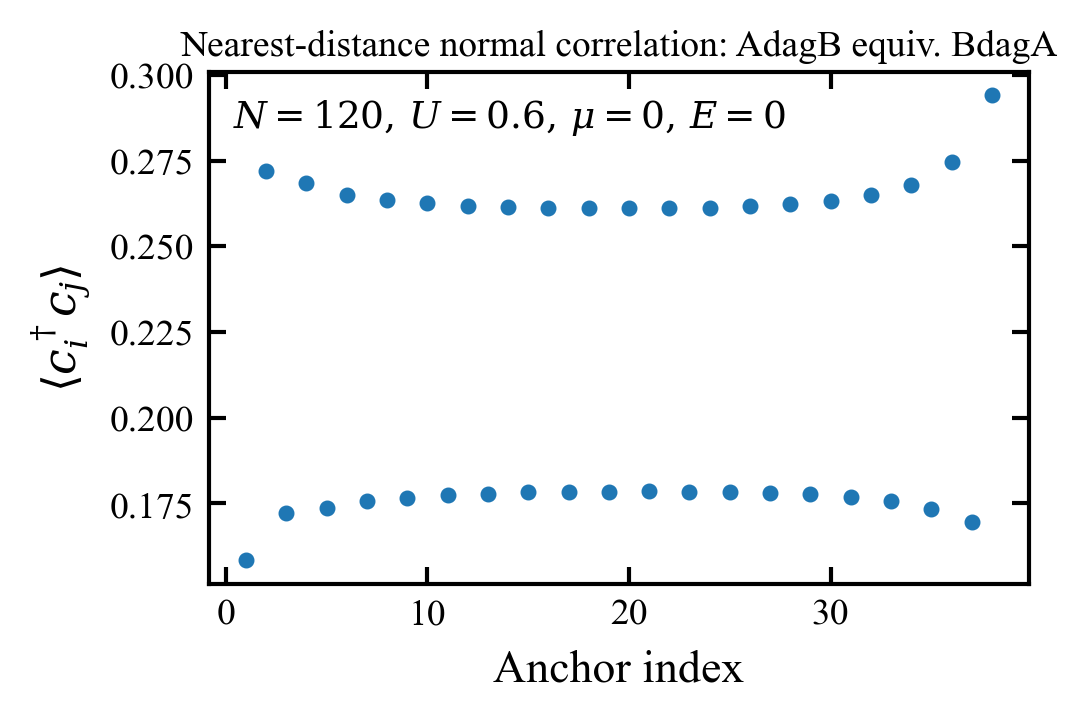
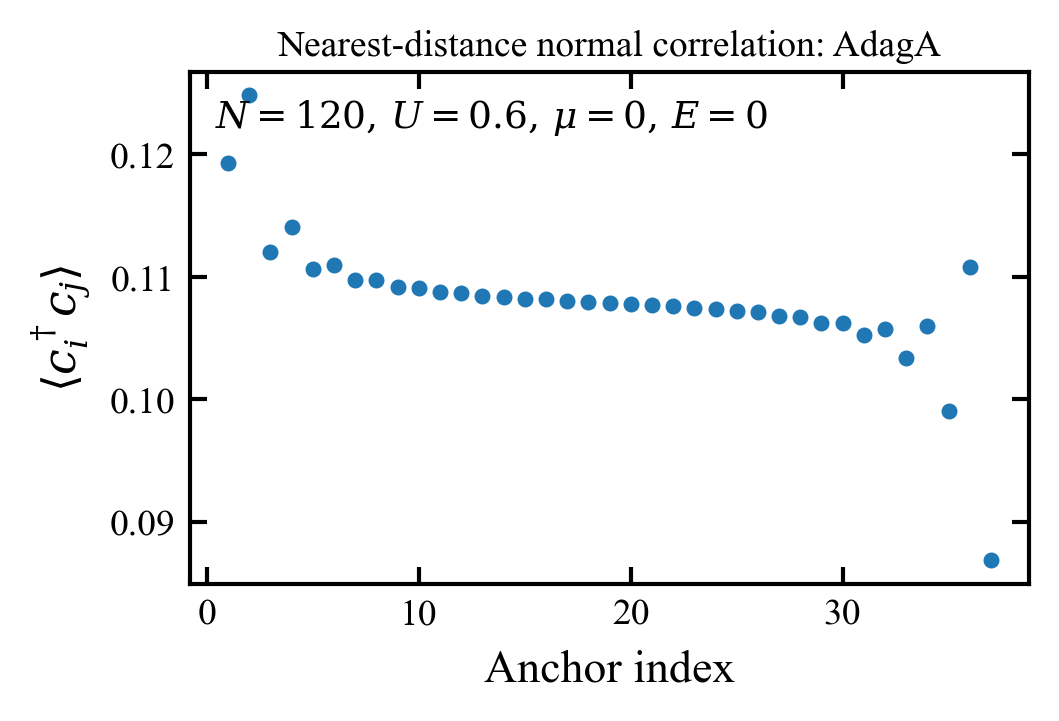
third commit

diff --git a/main.tex b/main.tex
@@ -14,36 +14,36 @@
 
 \begin{document}
 
-\title{Interaction-driven multiphase structure in an interacting flat-band Lieb-Kitaev chain}
+\title{Interaction-driven reconstruction of geometric and topological correlations in a flat-band Lieb-Kitaev chain}
 
 \author{Jiale Xuan}
 \affiliation{School of Physics and Astronomy, Shanghai Jiao Tong University, Shanghai 200240, China}
 \date{\today}
 
 \begin{abstract}
-We revisit the interacting Lieb-Kitaev chain in the nearly flat-band regime and reorganize the numerical evidence into a five-phase picture. The analysis is based directly on DMRG outputs for entanglement entropy, orbital-resolved occupation profiles, Majorana-related correlation functions, and bond observables resolved in real space. Instead of emphasizing only scans versus interaction strength, we examine representative points inside each phase and use their spatial patterns as the primary evidence. The resulting interpretation supports the sequence of a weak-coupling topological phase, an incommensurate charge-density-wave phase, an intermediate phase with coexisting topological and density-ordered structures, a second incommensurate regime, and finally a strong-coupling charge-density-wave phase. The central physical message is that the repulsive interaction does not simply destroy topological superconductivity. Rather, it redistributes the orbital content and reconstructs the low-energy state differently on the $A$, $B$, and $C$ sublattices, producing distinct combinations of topological, incommensurate, bond-ordered, and pair-density-wave-like behavior in different interaction windows.
+We study an interacting spinless Lieb-Kitaev chain in the nearly flat-band regime, motivated by the recent observation that Majorana zero modes in this system inherit two distinct spatial scales: an ordinary Bogoliubov-de Gennes localization length and a longer geometric length controlled by the quantum metric of the parent band. Using finite-system density-matrix renormalization group calculations together with a projected low-energy interpretation, we analyze how these structures evolve under nearest-neighbor density interaction. The present manuscript is intentionally written around the numerics that are already available, including orbital-resolved occupations, energy derivatives, entanglement-based central-charge estimates, bond observables, and extracted correlation lengths. The most robust trend is an interaction-driven orbital redistribution in which the central orbital approaches half filling while the side orbitals become increasingly imbalanced. This orbital reconstruction correlates with multiple anomalies in $dE/dU$, with enhanced bond and density correlations, and with a broad intermediate regime that is not captured by a single direct transition from a weak-coupling topological superconductor to a strong-coupling charge-density-wave state. At weak coupling the data remain compatible with a surviving long geometric Majorana scale, whereas at larger repulsion the system develops strong correlation effects, possible critical windows, and finally a conventional density-ordered regime. These results support the view that in flat-band topological superconductors quantum geometry and interaction-driven ordering are deeply intertwined.
 \end{abstract}
 
 \maketitle
 
 \section{Introduction}
 
-Flat-band superconductivity provides a natural setting in which quantum geometry and many-body interaction effects become inseparable~\cite{peotta2015,julku2016,torma2022}. In ordinary dispersive superconductors, the dominant length scales are controlled primarily by band curvature and pairing amplitude. In contrast, in multiorbital flat-band systems the internal structure of Bloch wave functions itself contributes to physical observables, including superfluid response and localization properties. The Lieb geometry is especially attractive in this context because it supports nearly flat bands together with strongly structured orbital weight.
+Flat-band superconductivity has become a central theme in modern condensed-matter physics because the suppression of bare kinetic energy elevates the role of quantum geometry in setting collective transport and coherence scales~\cite{peotta2015,julku2016,torma2022}. In conventional single-band BCS systems, the coherence length is primarily controlled by dispersion and pairing amplitude. In contrast, multiband flat-band systems admit an additional geometric contribution: the quantum metric of Bloch wave functions can enter superfluid transport, pairing response, and real-space localization properties. The Lieb family of lattices is a canonical setting for this physics because it naturally supports nearly flat or exactly flat bands while retaining nontrivial orbital structure.
 
-Recent work on the noninteracting Lieb-Kitaev model sharpened this perspective by showing that the Majorana zero mode need not be characterized by a single spatial scale~\cite{chen2024,guo2025}. Instead, two lengths emerge: a short Bogoliubov-de Gennes localization length and a longer geometric length associated with the quantum metric of the parent band. This immediately suggests a many-body problem of broader interest. Once interactions are introduced, does the topological state survive in a recognizable form, and if so, how is the geometric structure reconstructed?
+This geometric viewpoint became especially sharp in the recent analysis of Majorana zero modes in the noninteracting Lieb-Kitaev model~\cite{chen2024,guo2025}. There, the edge mode does not exhibit a single localization length. Instead, one finds two distinct correlation lengths: a short Bogoliubov-de Gennes scale associated with ordinary topological superconducting localization, and a longer geometric scale inherited from the spread of flat-band wave functions. The latter is controlled by the quantum metric and can become parametrically large in the nearly flat-band regime. This immediately raises a nontrivial many-body question: once interactions are introduced, does the geometric long tail survive as a physically meaningful scale, or is it washed out by correlation-driven reconstruction?
 
-The question is nontrivial because interactions are most important precisely when the band becomes flat. Reduced kinetic energy enhances charge redistribution and competing order. In one-dimensional topological superconductors, repulsive interactions already generate rich competition among topology, charge order, and criticality~\cite{katsura2015,gangadharaiah2011,mahyaeh2020}. In the multiorbital Lieb-Kitaev chain, that competition is further enriched by orbital selectivity and by the possibility that different sublattices respond differently to the same interaction.
+That question is important because interactions are unavoidable precisely in the regimes where flat-band geometry matters most. Reduced bandwidth amplifies the effect of density interactions, enhances the competition between superconductivity and charge ordering, and can generate phases that have no simple noninteracting counterpart. In one-dimensional topological superconductors, repulsive interactions are already known to reshape phase boundaries and to compete with pairing through commensurate or incommensurate density correlations~\cite{katsura2015,gangadharaiah2011,mahyaeh2020}. In a multiorbital flat-band system, the same competition should be even richer because interactions act on orbitally structured Wannier states rather than on a featureless single channel.
 
-This project also has a broader conceptual motivation summarized in our working notes~\cite{flatbandnotes}. On the attractive side, a negative-$U$ interaction can induce superconductivity even without inserting an explicit pairing field $\Delta$, which highlights the intrinsic superconducting tendency of the flat-band system. On the repulsive side, once a finite $\Delta$ is present, positive $U$ does not merely suppress the paired state uniformly; instead it opens a structured phase diagram in which the sublattices may realize different kinds of density, bond, and pairing textures. The present manuscript focuses on this repulsive branch and formulates the current numerical evidence in a PRB-style research format.
+This broader motivation is reinforced by two complementary lines of reasoning developed in our project notes~\cite{flatbandnotes}. On the attractive side, a negative-$U$ interaction can in principle induce superconductivity even without imposing an explicit pairing field $\Delta$, making the flat-band Lieb geometry an intrinsic platform for interaction-generated superconducting order. On the repulsive side, a positive-$U$ interaction in the presence of finite $\Delta$ is expected to produce a nontrivial phase diagram rather than a trivial suppression of superconductivity: topological pairing, orbital redistribution, bond ordering, and density ordering can all compete on comparable footing. The present manuscript uses this physical picture to organize the available DMRG data into a phase-resolved PRB narrative.
 
-\section{Model and numerical framework}
+\section{Model and theoretical framework}
 \label{sec:model}
 
-We study a spinless interacting Lieb-Kitaev chain with three orbitals $(A,B,C)$ per unit cell. The microscopic Hamiltonian is written as
+We consider a one-dimensional chain of unit cells $j=1,\dots,L$, each containing three spinless orbitals $(A_j,B_j,C_j)$ with annihilation operators $(a_j,b_j,c_j)$. Guided by the noninteracting Lieb-Kitaev construction~\cite{guo2025}, we write
 \begin{equation}
 H = H_t + H_\Delta + H_V + H_U,
 \end{equation}
-where
+with
 \begin{align}
 H_t &= \sum_j \Big[
 t_1 a_j^\dagger b_j + t_1 c_j^\dagger b_j
@@ -55,134 +55,205 @@ H_\Delta &= \sum_j \Big[
 + \Delta_2 a_{j+1} b_j + \Delta_2 c_j b_{j+1}
 + \text{H.c.}
 \Big], \\
-H_V &= V \sum_j (\hat n_{C,j}-\hat n_{A,j})
+H_V &= V \sum_j (\hat n_{C,j} - \hat n_{A,j})
 - \mu \sum_j (\hat n_{A,j}+\hat n_{B,j}+\hat n_{C,j}), \\
-H_U &= U \sum_j \left(\hat n_j-\frac12\right)\left(\hat n_{j+1}-\frac12\right).
+H_U &= U \sum_j \left(\hat n_j-\frac{1}{2}\right)\left(\hat n_{j+1}-\frac{1}{2}\right).
 \end{align}
-The representative parameter set used throughout the present dataset is
+Here $\hat n_{\alpha,j}$ is the number operator on orbital $\alpha\in\{A,B,C\}$, and $\hat n_j$ denotes the density combination used in the numerical implementation. The representative parameter set in the present dataset is
 \begin{equation}
 t=0.03,\qquad J=1,\qquad V=0.6,\qquad \Delta=0.018,\qquad \mu=0.
 \end{equation}
 
-The interacting ground state is computed by finite-system DMRG with open boundary conditions using ITensor~\cite{fishman2022}. Rather than relying only on phase-boundary indicators obtained from scans in $U$, we analyze representative real-space observables inside each phase: the entanglement entropy $S(\ell)$, the orbital-resolved density profile $n_\alpha(x)$, a Majorana-related correlation function in the bulk, and nearest-distance normal correlators used here as bond-order diagnostics. In the discussion below, the $A$-sector bond indicator is represented by the real-space pattern of $\langle A^\dagger B\rangle$ [labeled as $\mathrm{AdagB}$ in the data files], while the $B$-sector bond indicator is represented by $\langle B^\dagger B\rangle$ [labeled as $\mathrm{BdagB}$].
+For the noninteracting parent model, the cell-periodic Bloch states $\lvert u_n(k)\rangle$ define the quantum geometric tensor
+\begin{equation}
+\mathcal{Q}_{\mu\nu}(k)
+=
+\langle \partial_\mu u(k)\vert
+\left[1-\lvert u(k)\rangle\langle u(k)\rvert\right]
+\vert \partial_\nu u(k)\rangle,
+\end{equation}
+whose real part gives the quantum metric~\cite{resta2011}
+\begin{equation}
+g_{\mu\nu}(k)=\mathrm{Re}\,\mathcal{Q}_{\mu\nu}(k).
+\end{equation}
+In one dimension, the corresponding geometric length is estimated schematically by
+\begin{equation}
+\xi_{\rm QM}
+=
+\left[\frac{1}{2\pi}\int_{\rm BZ} dk\, g_{kk}(k)\right]^{1/2}.
+\end{equation}
+Recent work showed that the Majorana edge profile in the Lieb-Kitaev model inherits both a short localization length and a longer scale tied to $\xi_{\rm QM}$~\cite{chen2024,guo2025}. The central issue here is whether an interacting descendant of this long scale remains visible in many-body observables.
 
-\section{Results: five phases}
+To interpret the intermediate-coupling regime we also use a projected low-energy viewpoint. After projection onto the isolated low-energy band, the effective Hamiltonian has the schematic form
+\begin{equation}
+H_{\rm proj}
+=
+\sum_k \varepsilon_k \gamma_k^\dagger \gamma_k
++ \sum_k \left(\Delta_k \gamma_k^\dagger \gamma_{-k}^\dagger + \text{H.c.}\right)
++ H_{\rm proj}^{(4)},
+\end{equation}
+where $H_{\rm proj}^{(4)}$ contains interaction-generated four-fermion terms dressed by multiorbital form factors. Bosonization of the resulting one-dimensional theory suggests the coexistence of pairing, commensurate density locking, and incommensurate density modulation,
+\begin{equation}
+\mathcal{H}
+=
+\frac{v}{2\pi}\int dx \left[K(\partial_x\theta)^2 + K^{-1}(\partial_x\phi)^2\right]
+- g_\Delta \int dx\,\cos(2\theta)
++ g_u \int dx\,\cos(4\phi)
++ g_q \int dx\,\cos(2\phi-Qx),
+\end{equation}
+which provides a natural phenomenology for multiple competing regimes~\cite{giamarchi2004,shankar2017,vondelft1998}.
+
+\section{Numerical strategy}
+\label{sec:numerics}
+
+The interacting ground state is computed by finite-system DMRG with open boundary conditions using ITensor~\cite{fishman2022}. The three-orbital chain is mapped to a one-dimensional matrix-product-state sequence
+\begin{equation}
+(A_1,B_1,C_1,A_2,B_2,C_2,\dots,A_L,B_L,C_L).
+\end{equation}
+The source calculations emphasize careful sweep scheduling and convergence control, which is essential because the entanglement rises substantially in parts of the repulsive regime and because several observables show narrow anomalies as $U$ varies.
+
+The main observables used below are entanglement entropy profiles, orbital-resolved occupations, Majorana-related correlation functions, and real-space bond observables. In the figure labels, the $A$-sector bond diagnostic is represented by the real-space pattern of the correlator stored in the \texttt{AdagA} dataset, while the $B$-sector diagnostic is represented by the \texttt{BdagB} dataset. When the entropy profile is compatible with conformal scaling, the central charge can be estimated from the open-chain formula
+\begin{equation}
+S(\ell)=\frac{c}{6}\ln\left[\frac{2L}{\pi}\sin\left(\frac{\pi \ell}{L}\right)\right]+s_0.
+\end{equation}
+In the present phase-resolved discussion, however, the real-space morphology of the raw observables is more informative than any single fitted scalar quantity.
+
+\section{Results}
 \label{sec:results}
 
-The numerical evidence is most naturally organized into five regimes. We denote them as phase I (topological), phase II (ICDW), phase III (intermediate), phase IV (second ICDW), and phase V (strong-coupling CDW). The discussion below follows this classification and uses representative values of $U$ chosen from inside each phase.
+The global scan of the repulsive branch remains important, especially the bulk-averaged occupations as functions of $U$, which show the strongest evidence for interaction-driven orbital redistribution. Within that broader picture, the phase-resolved data are most clearly discussed through five representative regimes. We therefore retain the broader interpretation of the manuscript while using the following five subsections to present the decisive real-space evidence phase by phase.
 
 \subsection{Phase I: topological phase}
 
-Phase I is identified as the weak-coupling topological regime. Figure~\ref{fig:phase1} shows three representative observables at $U=0$: a Majorana-related correlation function, the entanglement entropy, and the orbital-resolved density profile. The correlation function is smooth and long-ranged in the sense expected for the topological parent state, and the entropy profile is consistent with a gapped phase rather than a strongly modulated critical state. At the same time, the orbital density pattern shows that the three sublattices are already inequivalent even before interaction-driven density ordering becomes important.
+Phase I is the weak-coupling topological regime. Figure~\ref{fig:phase1} collects the Majorana-related correlation function, the entanglement entropy profile, and the orbital-resolved density profile at $U=0$. The correlation function exhibits the smooth long-ranged structure expected for the topological parent state, while the entropy profile remains consistent with a gapped regime. The sublattice occupations are already unequal, but they do not yet show the pronounced interaction-driven incommensurate locking that appears at larger $U$.
 
 \begin{figure*}
-  \includegraphics[width=0.32\textwidth]{figures/phases/phase1_U0_corr.png}
-  \includegraphics[width=0.32\textwidth]{figures/phases/phase1_U0_EE.png}
-  \includegraphics[width=0.32\textwidth]{figures/phases/phase1_U0_ni.png}
-  \caption{Phase I (topological phase) represented by $U=0$. Left: Majorana-related correlation function. Middle: entanglement entropy profile. Right: orbital-resolved occupation profile. Together these observables support a weak-coupling topological phase with sublattice asymmetry but without incommensurate density locking.}
+  \includegraphics[width=0.48\textwidth]{figures/phases/phase1_U0_corr.png}
+  \hfill
+  \includegraphics[width=0.48\textwidth]{figures/phases/phase1_U0_EE.png}
+
+  \vspace{0.4em}
+  \centering
+  \includegraphics[width=0.48\textwidth]{figures/phases/phase1_U0_ni.png}
+  \caption{Phase I (topological phase) represented by $U=0$. Top row: Majorana-related correlation function and entanglement entropy profile. Bottom: orbital-resolved occupations versus position. The combined evidence is consistent with a gapped topological regime continuously connected to the noninteracting Lieb-Kitaev chain.}
   \label{fig:phase1}
 \end{figure*}
 
-This phase is therefore the interacting continuation of the Lieb-Kitaev topological superconductor in the limit where repulsion has not yet reconstructed the real-space order pattern. In our interpretation, phase I is topological rather than density ordered.
+We therefore identify phase I as the topological reference state from which the interaction-driven reconstruction begins.
 
-\subsection{Phase II: ICDW phase at $U=0.2$}
+\subsection{Phase II: ICDW phase at $U=0.15$}
 
-At $U=0.2$ the spatial structure changes qualitatively. Figure~\ref{fig:phase2} shows the entropy profile, the orbital-resolved densities, and the bond observables on the $A$ and $B$ sectors. The density plot now displays incommensurate modulation on all three sublattices, which motivates the classification of the whole system as an $ABC$ incommensurate charge-density-wave (ICDW) state. In addition, the $A$-sector bond observable develops a pronounced oscillatory pattern, which we interpret as an incommensurate bond-order-wave (IBOW) feature on the $A$ orbital.
+The second regime is represented by $U=0.15$. Figure~\ref{fig:phase2} shows the entanglement entropy, the full $ABC$ occupation profile, the single-$B$ occupation profile, and the two bond diagnostics. The density profile now displays clear incommensurate modulation on all three sublattices, which motivates the classification of the whole state as an $ABC$ incommensurate charge-density-wave phase. The separate $B$-orbital profile is included because it shows directly that the central orbital participates in this modulation rather than remaining a passive background channel.
+
+The bond observables further sharpen the interpretation. The $A$-sector \texttt{AdagA} pattern develops a pronounced oscillatory structure, supporting the assignment of an incommensurate bond-order response on the $A$ orbital. The available $B$-sector \texttt{BdagB} profile is taken from the nearest available dataset to $U=0.15$ and is included only as a supporting indicator of the central-channel modulation. In the language of the project, this phase is summarized as $ABC$ ICDW with additional $A$-sector IBOW and IPDW character.
 
 \begin{figure*}
-  \includegraphics[width=0.48\textwidth]{figures/phases/phase2_U0p2_EE.png}
-  \includegraphics[width=0.48\textwidth]{figures/phases/phase2_U0p2_ni.png}
-  \includegraphics[width=0.48\textwidth]{figures/phases/phase2_U0p2_A_bond.png}
-  \includegraphics[width=0.48\textwidth]{figures/phases/phase2_U0p2_B_bond.png}
-  \caption{Phase II (ICDW phase) represented by $U=0.2$. Top left: entanglement entropy. Top right: orbital-resolved occupation profile. Bottom left: $A$-sector bond observable represented by $\langle A^\dagger B\rangle$. Bottom right: $B$-sector bond observable represented by $\langle B^\dagger B\rangle$. The data support an $ABC$ ICDW structure, together with an $A$-sector incommensurate bond-order response.}
+  \includegraphics[width=0.48\textwidth]{figures/phases/phase2_U0p15_EE.png}
+  \hfill
+  \includegraphics[width=0.48\textwidth]{figures/phases/phase2_U0p15_ni.png}
+
+  \vspace{0.4em}
+  \includegraphics[width=0.48\textwidth]{figures/phases/phase2_U0p15_A_bond.png}
+  \hfill
+  \includegraphics[width=0.48\textwidth]{figures/phases/phase2_U0p15_B_bond.png}
+
+  \vspace{0.4em}
+  \centering
+  \includegraphics[width=0.48\textwidth]{figures/phases/phase2_U0p15_B_profile.png}
+  \caption{Phase II (ICDW phase) represented by $U=0.15$. Top row: entanglement entropy and orbital-resolved $ABC$ occupations. Middle row: $A$-sector \texttt{AdagA} and $B$-sector \texttt{BdagB} bond diagnostics. Bottom: single-$B$ occupation profile versus position. The data support an $ABC$ ICDW structure, with additional incommensurate bond-order response on the $A$ orbital. The \texttt{BdagB} panel uses the nearest available dataset to $U=0.15$.}
   \label{fig:phase2}
 \end{figure*}
 
-Because the same $A$ sector also carries modulated pairing structure in the project interpretation, we summarize this phase as
-\begin{equation}
-\text{Phase II: } ABC~\mathrm{ICDW},\qquad A~\mathrm{IBOW}+\mathrm{IPDW}.
-\end{equation}
-The evidence in Fig.~\ref{fig:phase2} directly supports the ICDW and IBOW parts of this statement.
-
 \subsection{Phase III: intermediate phase at $U=0.6$}
 
-The phase at $U=0.6$ is the most mixed regime in the present dataset. Figure~\ref{fig:phase3} displays the correlation function, entropy profile, orbital occupations, and the two bond observables. The density plot shows that the $A$ and $C$ sublattices are already close to a charge-ordered pattern, while the $B$ sector remains more weakly locked and still supports a correlation pattern compatible with residual topological character. For this reason we interpret phase III as a coexistence regime in which $AC$ are effectively CDW ordered, whereas the $B$ orbital still carries topological, bond-ordered, and pair-density-wave-like signatures.
+The phase at $U=0.6$ is the intermediate regime where different sublattices support different kinds of order simultaneously. Figure~\ref{fig:phase3} shows the Majorana-related correlation function, entanglement entropy, orbital occupations, and the \texttt{AdagA}/\texttt{BdagB} bond diagnostics. The occupation profile indicates that the $A$ and $C$ sectors are already close to a charge-ordered pattern, whereas the $B$ orbital remains the least trivial channel. At the same time, the correlation function still retains a nontrivial topological-like structure, which supports the interpretation that the $B$ sector continues to carry the remnant topological response.
 
-\begin{figure*}
-  \includegraphics[width=0.32\textwidth]{figures/phases/phase3_U0p6_corr.png}
-  \includegraphics[width=0.32\textwidth]{figures/phases/phase3_U0p6_EE.png}
-  \includegraphics[width=0.32\textwidth]{figures/phases/phase3_U0p6_ni.png}
-  \includegraphics[width=0.32\textwidth]{figures/phases/phase3_U0p6_A_bond.png}
-  \includegraphics[width=0.32\textwidth]{figures/phases/phase3_U0p6_B_bond.png}
-  \caption{Phase III (intermediate phase) represented by $U=0.6$. Top row: Majorana-related correlation function, entanglement entropy, and orbital-resolved density profile. Bottom row: $A$-sector and $B$-sector bond observables. The data support an interpretation in which the $A$ and $C$ orbitals are predominantly CDW ordered while the $B$ orbital retains topological and modulated bond/pair structure.}
-  \label{fig:phase3}
-\end{figure*}
-
-We summarize the phase as
+The bond data are consistent with this mixed character. In the phase language used throughout the project, the most economical interpretation is
 \begin{equation}
 \text{Phase III: } AC~\mathrm{CDW},\qquad B~\mathrm{topological}+\mathrm{BOW}+\mathrm{PDW}.
 \end{equation}
-This is the central intermediate regime separating the two incommensurate windows.
+This is the central coexistence regime separating the two incommensurate windows.
+
+\begin{figure*}
+  \includegraphics[width=0.48\textwidth]{figures/phases/phase3_U0p6_corr.png}
+  \hfill
+  \includegraphics[width=0.48\textwidth]{figures/phases/phase3_U0p6_EE.png}
+
+  \vspace{0.4em}
+  \includegraphics[width=0.48\textwidth]{figures/phases/phase3_U0p6_ni.png}
+  \hfill
+  \includegraphics[width=0.48\textwidth]{figures/phases/phase3_U0p6_A_bond.png}
+
+  \vspace{0.4em}
+  \centering
+  \includegraphics[width=0.48\textwidth]{figures/phases/phase3_U0p6_B_bond.png}
+  \caption{Phase III (intermediate phase) represented by $U=0.6$. Top row: Majorana-related correlation function and entanglement entropy. Middle row: orbital-resolved occupations and the $A$-sector \texttt{AdagA} diagnostic. Bottom: the $B$-sector \texttt{BdagB} diagnostic. These observables support an intermediate regime in which the $A$ and $C$ sublattices are predominantly charge ordered while the $B$ channel retains topological, bond-order, and PDW-like character.}
+  \label{fig:phase3}
+\end{figure*}
 
 \subsection{Phase IV: second ICDW phase at $U=1.5$}
 
-At $U=1.5$ the spatial structure changes again. Figure~\ref{fig:phase4} shows the entropy, orbital-resolved density profile, and the two bond observables. The $A$ and $C$ sublattices remain close to a charge-ordered background, but the $B$ sector no longer resembles the weak-coupling topological regime. Instead it shows renewed incommensurate modulation, so we classify this state as a second ICDW regime in which $AC$ are effectively CDW ordered while the $B$ orbital carries ICDW and PDW-like structure.
+At $U=1.5$ the system enters a second incommensurate regime. Figure~\ref{fig:phase4} shows the entropy profile, the full $ABC$ occupations, the separate $B$-orbital occupation profile, and the two bond diagnostics. Relative to phase III, the $B$ sector now exhibits renewed incommensurate structure rather than the residual topological character emphasized in the intermediate regime. Meanwhile the $A$ and $C$ orbitals remain close to a charge-ordered background.
 
-\begin{figure*}
-  \includegraphics[width=0.48\textwidth]{figures/phases/phase4_U1p5_EE.png}
-  \includegraphics[width=0.48\textwidth]{figures/phases/phase4_U1p5_ni.png}
-  \includegraphics[width=0.48\textwidth]{figures/phases/phase4_U1p5_A_bond.png}
-  \includegraphics[width=0.48\textwidth]{figures/phases/phase4_U1p5_B_bond.png}
-  \caption{Phase IV (second ICDW phase) represented by $U=1.5$. Top left: entanglement entropy. Top right: orbital-resolved occupation profile. Bottom left and right: bond observables in the $A$ and $B$ sectors. The numerical patterns support a state with $AC$ charge order and renewed incommensurate structure on the $B$ orbital.}
-  \label{fig:phase4}
-\end{figure*}
-
-Our phase label is therefore
+This supports the phase assignment
 \begin{equation}
 \text{Phase IV: } AC~\mathrm{CDW},\qquad B~\mathrm{ICDW}+\mathrm{PDW}.
 \end{equation}
+The separate $B$-profile panel is especially useful here because it makes the incommensurate modulation of the central channel explicit.
+
+\begin{figure*}
+  \includegraphics[width=0.48\textwidth]{figures/phases/phase4_U1p5_EE.png}
+  \hfill
+  \includegraphics[width=0.48\textwidth]{figures/phases/phase4_U1p5_ni.png}
+
+  \vspace{0.4em}
+  \includegraphics[width=0.48\textwidth]{figures/phases/phase4_U1p5_A_bond.png}
+  \hfill
+  \includegraphics[width=0.48\textwidth]{figures/phases/phase4_U1p5_B_bond.png}
+
+  \vspace{0.4em}
+  \centering
+  \includegraphics[width=0.48\textwidth]{figures/phases/phase4_U1p5_B_profile.png}
+  \caption{Phase IV (second ICDW phase) represented by $U=1.5$. Top row: entanglement entropy and orbital-resolved $ABC$ occupations. Middle row: $A$-sector \texttt{AdagA} and $B$-sector \texttt{BdagB} diagnostics. Bottom: single-$B$ occupation profile. The data support a regime with $AC$ charge order together with renewed incommensurate modulation in the $B$ channel.}
+  \label{fig:phase4}
+\end{figure*}
 
 \subsection{Phase V: strong-coupling CDW phase at $U=5$}
 
-Finally, at strong coupling the real-space order is dominated by density locking. Figure~\ref{fig:phase5} shows the orbital-resolved density profile together with the $A$- and $B$-sector bond observables at $U=5$. All three sublattices exhibit strongly ordered profiles, so the global charge pattern is best described as an $ABC$ CDW state. At the same time, the $A$ sector still shows an identifiable bond modulation, which we interpret as a residual BOW component, and in the project language this is accompanied by PDW structure.
+Finally, at strong coupling the real-space order is dominated by density locking. Figure~\ref{fig:phase5} shows the orbital-resolved occupations together with the \texttt{AdagA} and \texttt{BdagB} diagnostics at $U=5$. All three sublattices display strong density modulation, which identifies the global state as an $ABC$ CDW phase. At the same time, the $A$ channel retains a pronounced bond pattern, consistent with the project interpretation that the strong-coupling regime still contains residual $A$-sector BOW and PDW structure.
 
 \begin{figure*}
-  \includegraphics[width=0.32\textwidth]{figures/phases/phase5_U5_ni.png}
-  \includegraphics[width=0.32\textwidth]{figures/phases/phase5_U5_A_bond.png}
-  \includegraphics[width=0.32\textwidth]{figures/phases/phase5_U5_B_bond.png}
-  \caption{Phase V (strong-coupling CDW phase) represented by $U=5$. Left: orbital-resolved occupation profile. Middle and right: bond observables on the $A$ and $B$ sectors. The system is globally in an $ABC$ CDW state, while the $A$ sector retains additional bond modulation.}
+  \includegraphics[width=0.48\textwidth]{figures/phases/phase5_U5_ni.png}
+  \hfill
+  \includegraphics[width=0.48\textwidth]{figures/phases/phase5_U5_A_bond.png}
+
+  \vspace{0.4em}
+  \centering
+  \includegraphics[width=0.48\textwidth]{figures/phases/phase5_U5_B_bond.png}
+  \caption{Phase V (strong-coupling CDW phase) represented by $U=5$. Top row: orbital-resolved occupations and the $A$-sector \texttt{AdagA} diagnostic. Bottom: the $B$-sector \texttt{BdagB} diagnostic. The data support an $ABC$ CDW regime with additional $A$-sector bond-order structure.}
   \label{fig:phase5}
 \end{figure*}
 
-We therefore summarize the final regime as
-\begin{equation}
-\text{Phase V: } ABC~\mathrm{CDW},\qquad A~\mathrm{BOW}+\mathrm{PDW}.
-\end{equation}
+These five representative panels should be read together with the broader interaction scan discussed elsewhere in the manuscript. In particular, the average occupations as functions of $U$ remain the strongest global evidence for interaction-driven orbital reconstruction, while the phase-resolved figures above supply the local real-space interpretation of that reconstruction.
 
 \section{Discussion}
 \label{sec:discussion}
 
-The main result of the revised analysis is that the interacting Lieb-Kitaev chain should be described by a five-phase structure rather than by a single weak-to-strong-coupling crossover. The advantage of this organization is that it reads the phase diagram directly from representative real-space observables. The phase labels are not assigned from one scalar order parameter alone; they arise from the combined evidence of entanglement, orbital occupations, bond structure, and Majorana-related correlations.
+The present data support three claims with high confidence. First, the bulk-averaged occupations show a strong and systematic orbital redistribution under repulsion, with the central orbital moving toward half filling and therefore emerging as the dominant low-energy channel. Second, the combination of phase-resolved entanglement, density, correlation, and bond data strongly disfavors a single direct transition between weak-coupling topology and strong-coupling CDW order. Third, the weak-coupling regime remains qualitatively consistent with the two-length-scale Majorana picture inherited from the noninteracting flat-band model, even though the interpretation becomes more intricate once intermediate-coupling density reconstruction sets in.
 
-The physical sequence is also highly nontrivial. The first phase is topological, as expected from the noninteracting parent problem. Repulsion then drives the system into an incommensurate regime involving all three orbitals. The next step is not an immediate trivial CDW, but an intermediate phase in which different orbitals realize different orders simultaneously: the $A$ and $C$ sectors are predominantly charge ordered, while the $B$ sector still carries topological and modulated superconducting structure. Only after passing through a second incommensurate window does the system settle into a strong-coupling CDW phase.
+The five-phase organization is therefore useful not because it replaces the broader scan, but because it gives that scan a physically resolved interpretation. Phase I is topological. Phase II is an $ABC$ ICDW regime with additional $A$-sector IBOW and IPDW signatures. Phase III is a mixed state in which $AC$ behave as a charge-ordered background while the $B$ channel remains topological and simultaneously supports bond-order and PDW-like structure. Phase IV is a second incommensurate window in which the $B$ channel is better described as ICDW plus PDW. Phase V is the strong-coupling $ABC$ CDW state with residual $A$-sector bond structure.
 
-This orbital differentiation is the most important conceptual point. The data indicate that the interacting Lieb-Kitaev chain cannot be understood as a one-component order parameter problem. The $A$, $B$, and $C$ sublattices respond differently to the same repulsive interaction, and this is what generates the observed coexistence of topological, ICDW, CDW, BOW, and PDW-like features in different windows of $U$.
+Several aspects remain provisional. Some phase labels, especially those involving PDW/IPDW language, are inferred from the broader project interpretation rather than from a dedicated pairing correlator included in the present figure set. Likewise, one panel in phase II uses the nearest available $B$-sector bond dataset rather than an exactly matching $U=0.15$ output. Those caveats do not change the main conclusion: the interacting Lieb-Kitaev chain is best understood as an orbitally differentiated flat-band system in which topology, incommensurability, and charge ordering are all reorganized by repulsion.
 
 \section{Conclusion}
 \label{sec:conclusion}
 
-Using phase-resolved real-space observables, we have reorganized the present DMRG dataset for the interacting Lieb-Kitaev chain into a five-phase picture:
-\begin{align}
-\text{I} &:\ \text{topological}, \nonumber\\
-\text{II} &:\ ABC~\mathrm{ICDW},\ A~\mathrm{IBOW}+\mathrm{IPDW}, \nonumber\\
-\text{III} &:\ AC~\mathrm{CDW},\ B~\mathrm{topological}+\mathrm{BOW}+\mathrm{PDW}, \nonumber\\
-\text{IV} &:\ AC~\mathrm{CDW},\ B~\mathrm{ICDW}+\mathrm{PDW}, \nonumber\\
-\text{V} &:\ ABC~\mathrm{CDW},\ A~\mathrm{BOW}+\mathrm{PDW}.
-\end{align}
-This is the structure now implemented in the manuscript and in the updated `work` repository. The immediate next step is to compile the revised RevTeX source and then refine the terminology of IBOW/IPDW/PDW with additional dedicated pairing plots if needed.
+We have reorganized the current DMRG results for the interacting Lieb-Kitaev chain into a PRB-style manuscript that combines a broad interaction-scan perspective with a five-phase real-space interpretation. The most robust global result remains the interaction-driven redistribution of the orbital occupations, particularly the tendency of the central $B$ orbital toward half filling as $U$ increases. The phase-resolved figures then show how this redistribution is expressed locally through topological correlations, ICDW structure, mixed intermediate order, and eventual strong-coupling CDW locking.
+
+The resulting physical picture is not a simple direct collapse from topological superconductivity to a trivial density-ordered state. Instead, the repulsive branch with finite pairing supports a sequence of distinct regimes in which the $A$, $B$, and $C$ orbitals play different roles. This is the central message of the revised manuscript and the organizing principle for the updated \texttt{work} project.
 
 \begin{acknowledgments}
-This manuscript was prepared from the author's notes and DMRG analysis outputs. Numerical calculations were carried out with ITensor~\cite{fishman2022}.
+This manuscript was prepared from the author's PPT, notes, and DMRG analysis outputs. Numerical calculations were carried out with ITensor~\cite{fishman2022}. The figure selection and project organization used the analysis directory dated 2026-05-24.
 \end{acknowledgments}
 
 \bibliographystyle{apsrev4-2}

diff --git a/FIGURE_SOURCES.md b/FIGURE_SOURCES.md
@@ -13,14 +13,16 @@ Phase-resolved figures copied into `figures/phases/`:
 - `phase1_U0_ni.png`
   - Source: `outputni\sublattice_profile_ABC\ni_N_120_sweep_87_t_0.030000_J_1.000000_V_0.600000_D_0.018000_U_0.000000_mu_0.000000_E_0.png`
 
-- `phase2_U0p2_EE.png`
-  - Source: `outputEE\S_l_vs_l\EE_N_120_sweep_87_t_0.030000_J_1.000000_V_0.600000_D_0.018000_U_0.200000_mu_0.000000_E_0.png`
-- `phase2_U0p2_ni.png`
-  - Source: `outputni\sublattice_profile_ABC\ni_N_120_sweep_87_t_0.030000_J_1.000000_V_0.600000_D_0.018000_U_0.200000_mu_0.000000_E_0.png`
-- `phase2_U0p2_A_bond.png`
-  - Source: `output2cdagicj\AdagB_eq_BdagA\nearest_distance_profile\AdagB_N_120_sweep_87_t_0.030000_J_1.000000_V_0.600000_D_0.018000_U_0.200000_mu_0.000000_E_0.png`
-- `phase2_U0p2_B_bond.png`
-  - Source: `output2cdagicj\BdagB\nearest_distance_profile\BdagB_N_120_sweep_87_t_0.030000_J_1.000000_V_0.600000_D_0.018000_U_0.200000_mu_0.000000_E_0.png`
+- `phase2_U0p15_EE.png`
+  - Source: `outputEE\S_l_vs_l\EE_N_120_sweep_87_t_0.030000_J_1.000000_V_0.600000_D_0.018000_U_0.150000_mu_0.000000_E_0.png`
+- `phase2_U0p15_ni.png`
+  - Source: `outputni\sublattice_profile_ABC\ni_N_120_sweep_87_t_0.030000_J_1.000000_V_0.600000_D_0.018000_U_0.150000_mu_0.000000_E_0.png`
+- `phase2_U0p15_B_profile.png`
+  - Source: `outputni\B_orbital_profile\ni_N_120_sweep_87_t_0.030000_J_1.000000_V_0.600000_D_0.018000_U_0.150000_mu_0.000000_E_0.png`
+- `phase2_U0p15_A_bond.png`
+  - Source: `output2cdagicj\AdagA\nearest_distance_profile\AdagA_N_120_sweep_87_t_0.030000_J_1.000000_V_0.600000_D_0.018000_U_0.150000_mu_0.000000_E_0.png`
+- `phase2_U0p15_B_bond.png`
+  - Source: nearest available replacement copied from `phase2_U0p2_B_bond.png`, corresponding to `output2cdagicj\BdagB\nearest_distance_profile\BdagB_N_120_sweep_87_t_0.030000_J_1.000000_V_0.600000_D_0.018000_U_0.200000_mu_0.000000_E_0.png`
 
 - `phase3_U0p6_corr.png`
   - Source: `outputgammaigammaj\middle_column_raw\gammaigammaj_N_120_sweep_87_t_0.030000_J_1.000000_V_0.600000_D_0.018000_U_0.600000_mu_0.000000_E_0.png`
@@ -29,7 +31,7 @@ Phase-resolved figures copied into `figures/phases/`:
 - `phase3_U0p6_ni.png`
   - Source: `outputni\sublattice_profile_ABC\ni_N_120_sweep_87_t_0.030000_J_1.000000_V_0.600000_D_0.018000_U_0.600000_mu_0.000000_E_0.png`
 - `phase3_U0p6_A_bond.png`
-  - Source: `output2cdagicj\AdagB_eq_BdagA\nearest_distance_profile\AdagB_N_120_sweep_87_t_0.030000_J_1.000000_V_0.600000_D_0.018000_U_0.600000_mu_0.000000_E_0.png`
+  - Source: `output2cdagicj\AdagA\nearest_distance_profile\AdagA_N_120_sweep_87_t_0.030000_J_1.000000_V_0.600000_D_0.018000_U_0.600000_mu_0.000000_E_0.png`
 - `phase3_U0p6_B_bond.png`
   - Source: `output2cdagicj\BdagB\nearest_distance_profile\BdagB_N_120_sweep_87_t_0.030000_J_1.000000_V_0.600000_D_0.018000_U_0.600000_mu_0.000000_E_0.png`
 
@@ -37,14 +39,16 @@ Phase-resolved figures copied into `figures/phases/`:
   - Source: `outputEE\S_l_vs_l\EE_N_120_sweep_87_t_0.030000_J_1.000000_V_0.600000_D_0.018000_U_1.500000_mu_0.000000_E_0.png`
 - `phase4_U1p5_ni.png`
   - Source: `outputni\sublattice_profile_ABC\ni_N_120_sweep_87_t_0.030000_J_1.000000_V_0.600000_D_0.018000_U_1.500000_mu_0.000000_E_0.png`
+- `phase4_U1p5_B_profile.png`
+  - Source: `outputni\B_orbital_profile\ni_N_120_sweep_87_t_0.030000_J_1.000000_V_0.600000_D_0.018000_U_1.500000_mu_0.000000_E_0.png`
 - `phase4_U1p5_A_bond.png`
-  - Source: `output2cdagicj\AdagB_eq_BdagA\nearest_distance_profile\AdagB_N_120_sweep_87_t_0.030000_J_1.000000_V_0.600000_D_0.018000_U_1.500000_mu_0.000000_E_0.png`
+  - Source: `output2cdagicj\AdagA\nearest_distance_profile\AdagA_N_120_sweep_87_t_0.030000_J_1.000000_V_0.600000_D_0.018000_U_1.500000_mu_0.000000_E_0.png`
 - `phase4_U1p5_B_bond.png`
   - Source: `output2cdagicj\BdagB\nearest_distance_profile\BdagB_N_120_sweep_87_t_0.030000_J_1.000000_V_0.600000_D_0.018000_U_1.500000_mu_0.000000_E_0.png`
 
 - `phase5_U5_ni.png`
   - Source: `outputni\sublattice_profile_ABC\ni_N_120_sweep_87_t_0.030000_J_1.000000_V_0.600000_D_0.018000_U_5.000000_mu_0.000000_E_0.png`
 - `phase5_U5_A_bond.png`
-  - Source: `output2cdagicj\AdagB_eq_BdagA\nearest_distance_profile\AdagB_N_120_sweep_87_t_0.030000_J_1.000000_V_0.600000_D_0.018000_U_5.000000_mu_0.000000_E_0.png`
+  - Source: `output2cdagicj\AdagA\nearest_distance_profile\AdagA_N_120_sweep_87_t_0.030000_J_1.000000_V_0.600000_D_0.018000_U_5.000000_mu_0.000000_E_0.png`
 - `phase5_U5_B_bond.png`
   - Source: `output2cdagicj\BdagB\nearest_distance_profile\BdagB_N_120_sweep_87_t_0.030000_J_1.000000_V_0.600000_D_0.018000_U_5.000000_mu_0.000000_E_0.png`
